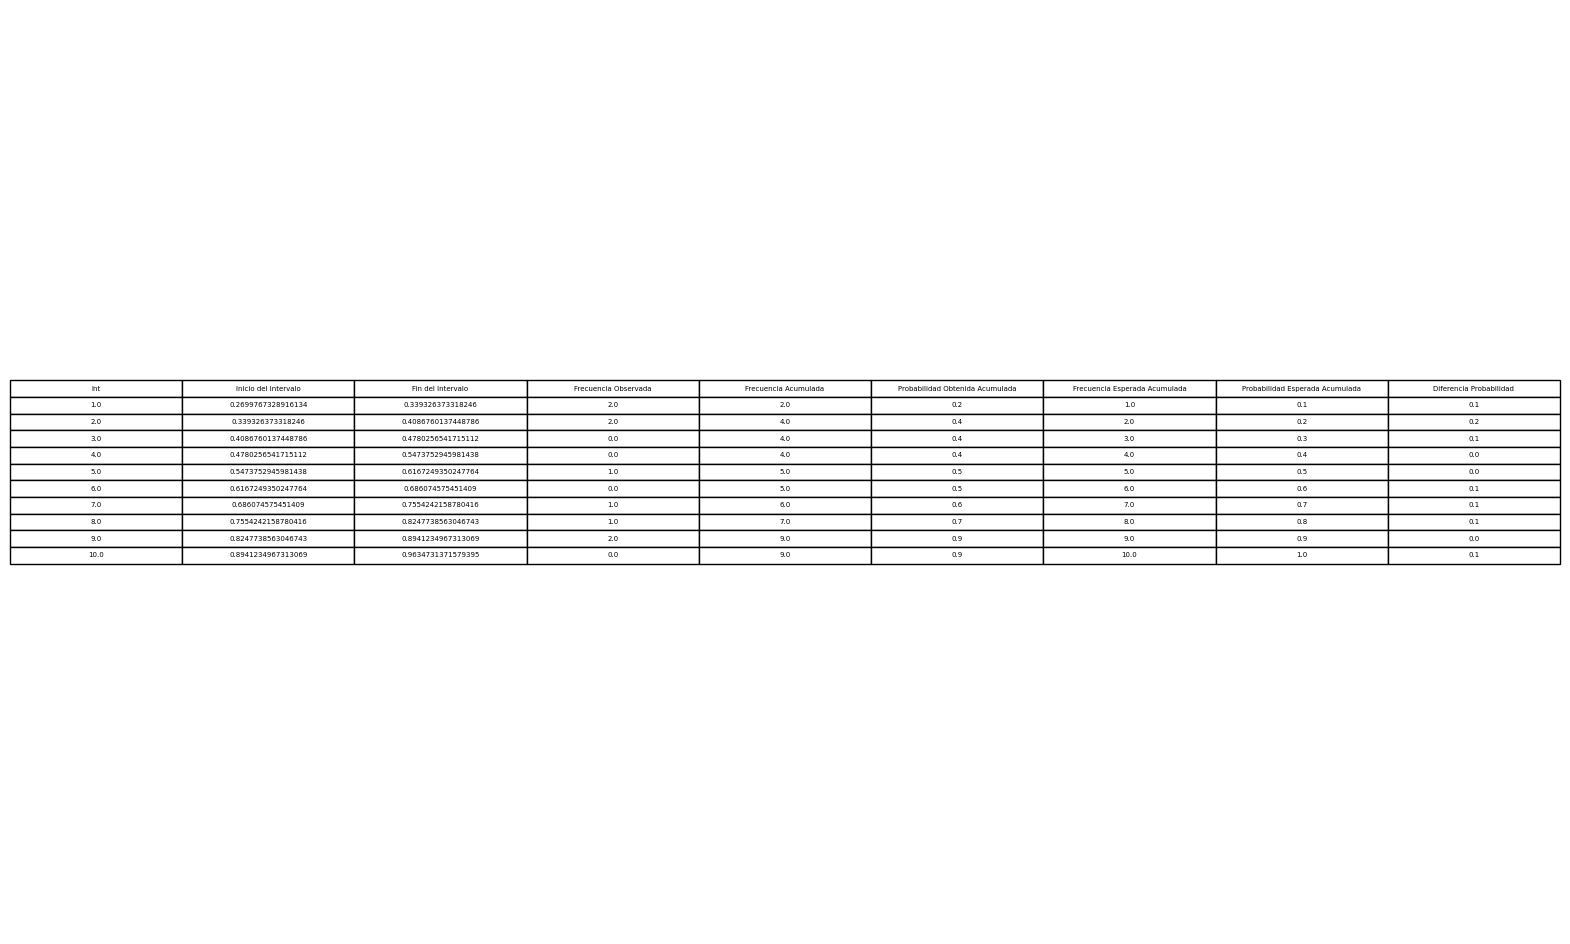
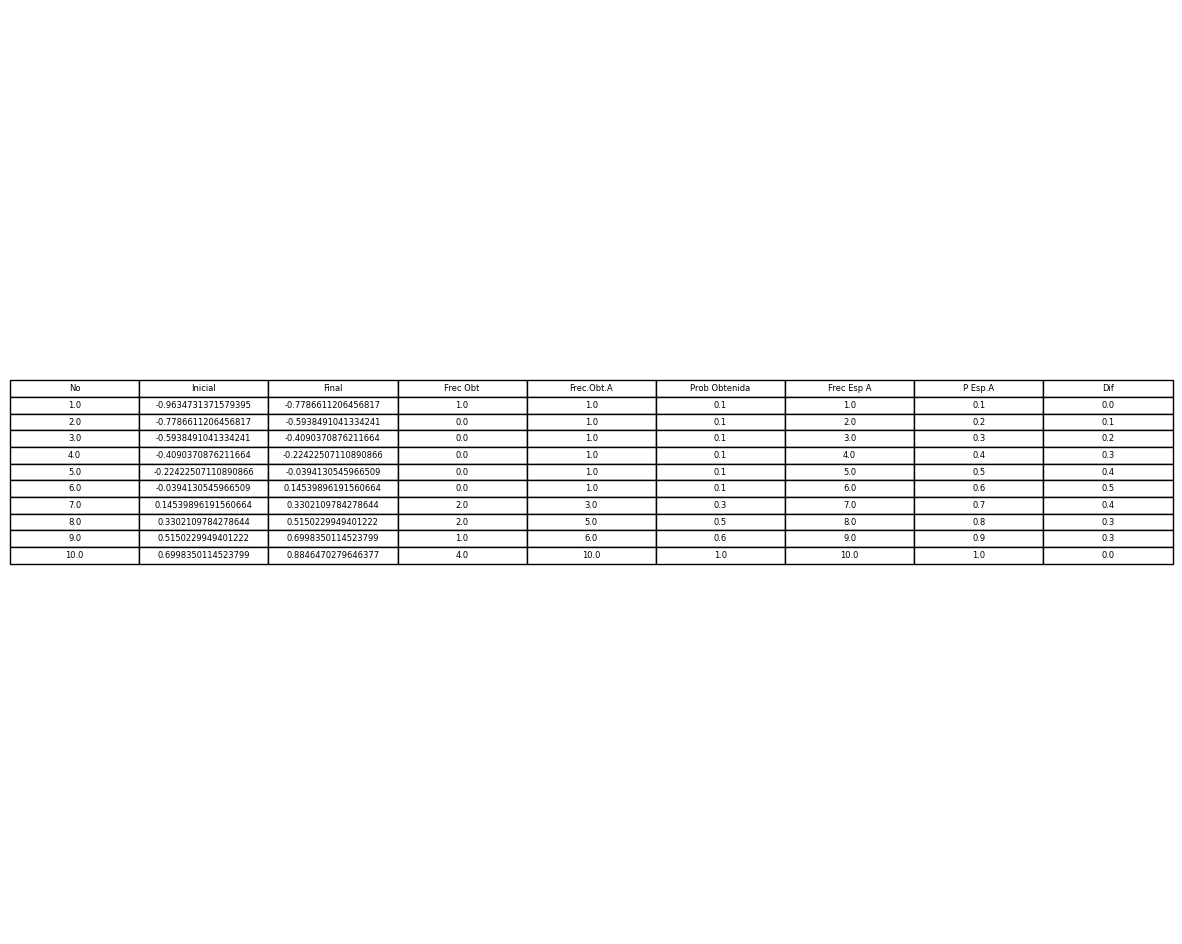
GUI Tests
Implemented GUI

diff --git a/Test/ks.py b/Test/ks.py
@@ -2,9 +2,11 @@ import numpy as np
 import pandas as pd
 from scipy.stats import ksone
 import matplotlib.pyplot as plt
+import tkinter as tk
+from tkinter import ttk
 
 # Ingresa tus valores de conjunto de datos
-data = [0.9634731371579395, 0.8846470279646376, 0.7266874660722045, 0.35868355450366385, 0.3402934242066663, 0.2699767328916134, 0.31722243341888456, 0.5614001017785968, 0.8342195117324919, 0.7615286765340064]
+data = [-0.9634731371579395, 0.8846470279646376, 0.7266874660722045, 0.35868355450366385, 0.3402934242066663, 0.2699767328916134, 0.31722243341888456, 0.5614001017785968, 0.8342195117324919, 0.7615286765340064]
 
 # Define el número de intervalos
 num_intervals = 10
@@ -65,25 +67,26 @@ def calcular_valores_criticos_ks(alpha, n):
     
     return valor_critico
 
-
+root = tk.Tk()
+root.title("Tabla KS Test")
 
 # Crea un DataFrame de Pandas para mostrar el procedimiento
 data_table = pd.DataFrame({
-    'Int': list(range(1, num_intervals + 1)),
-    'Inicio del Intervalo': [interval[0] for interval in intervals],
-    'Fin del Intervalo': [interval[1] for interval in intervals],
-    'Frecuencia Observada': frequency,
-    'Frecuencia Acumulada': cumulative_frequency,
-    'Probabilidad Obtenida Acumulada': observed_cumulative_probability,
-    'Frecuencia Esperada Acumulada': expected_cumulative_frequency,
-    'Probabilidad Esperada Acumulada': expected_cumulative_probability,
-    'Diferencia Probabilidad': difference_probability
+    'No': list(range(1, num_intervals + 1)),
+    'Inicial': [interval[0] for interval in intervals],
+    'Final': [interval[1] for interval in intervals],
+    'Frec Obt': frequency,
+    'Frec.Obt.A': cumulative_frequency,
+    'Prob Obtenida': observed_cumulative_probability,
+    'Frec Esp A': expected_cumulative_frequency,
+    'P Esp.A': expected_cumulative_probability,
+    'Dif': difference_probability
 })
 
 # Formatea las columnas para mostrar 4 decimales
-data_table['Probabilidad Obtenida Acumulada'] = data_table['Probabilidad Obtenida Acumulada'].round(4)
-data_table['Probabilidad Esperada Acumulada'] = data_table['Probabilidad Esperada Acumulada'].round(4)
-data_table['Diferencia Probabilidad'] = data_table['Diferencia Probabilidad'].round(4)
+data_table['Prob Obtenida'] = data_table['Prob Obtenida'].round(4)
+data_table['P Esp.A'] = data_table['P Esp.A'].round(4)
+data_table['Dif'] = data_table['Dif'].round(4)
 
 pd.set_option('display.max_columns', None)
 # Muestra la tabla
@@ -104,7 +107,8 @@ else:
     print("Se rechaza la hipótesis nula")
     
 # Crea una figura y un eje
-fig, ax = plt.subplots(figsize=(20, 12))
+fig, ax = plt.subplots(figsize=(15, 12))
+col_widths = [0.1, 0.3, 0.2, 0.3]
 
 # Oculta los ejes
 ax.axis('off')
@@ -115,4 +119,39 @@ ax.table(cellText=data_table.values, colLabels=data_table.columns, cellLoc='cent
 # Guarda la figura como una imagen
 plt.savefig('tabla_resultados.png', bbox_inches='tight', pad_inches=0.1)    
     
-    
+
+# Crear un widget Treeview de Tkinter para mostrar la tabla
+table = ttk.Treeview(root, columns=list(data_table.columns), show="headings")
+table.column("No", width="50")
+table.column("Inicial", width="130")
+table.column("Final", width="130")
+table.column("Frec Obt", width="70")
+table.column("Frec.Obt.A", width="70")
+table.column("Prob Obtenida", width="70")
+table.column("Frec Esp A", width="70")
+table.column("P Esp.A", width="70")
+table.column("Dif", width="60")
+
+# Configurar encabezados de columnas
+for col in data_table.columns:
+    table.heading(col, text=col)
+
+# Agregar filas de datos a la tabla
+for i, row in data_table.iterrows():
+    table.insert('', 'end', values=list(row))
+
+# Colocar la tabla en la ventana
+table.grid(row=0, column=0, padx=10, pady=10)
+
+# ... (tu código existente) ...
+
+# Función para cerrar la ventana cuando se haga clic en el botón de "Cerrar"
+def cerrar_ventana():
+    root.destroy()
+
+# Botón para cerrar la ventana
+boton_cerrar = ttk.Button(root, text="Cerrar", command=cerrar_ventana)
+boton_cerrar.grid(row=1, column=0, padx=10, pady=10)
+
+# Ejecutar la aplicación de Tkinter
+root.mainloop()

diff --git a/Test/chi-cuadrado.py b/Test/chi-cuadrado.py
@@ -4,6 +4,8 @@ from scipy.stats import ksone
 import scipy.stats as stats
 import matplotlib.pyplot as plt
 import math
+import tkinter as tk
+from tkinter import ttk
 
 # Ingresa tus valores de conjunto de datos
 data = [0.9634731371579395, 0.8846470279646376, 0.7266874660722045, 0.35868355450366385, 0.3402934242066663, 0.2699767328916134, 0.31722243341888456, 0.5614001017785968, 0.8342195117324919, 0.7615286765340064]
@@ -11,6 +13,9 @@ total_datos = data.__len__()
 #El numero de intervalos es igual a la raiz cuadrada del numero de datos
 m = math.sqrt(total_datos)
 num_intervals = round(m)
+
+root = tk.Tk()
+root.title("Tabla Chi Cuadrado")
 
 #Ei = numero elementos / numero intervalos
 ei = total_datos / num_intervals
@@ -53,8 +58,8 @@ squared_difference = [((ei - observed) ** 2) / ei for observed in frequency]
 
 data_table = pd.DataFrame({
     'Int': list(range(1, num_intervals + 1)),
-    'Inicio del Intervalo': [interval[0] for interval in intervals],
-    'Fin del Intervalo': [interval[1] for interval in intervals],
+    'Inicial': [interval[0] for interval in intervals],
+    'Final': [interval[1] for interval in intervals],
     'Oi': frequency,
     'Ei': [ei] * num_intervals,
     '(Ei-Oi)^2/Ei': squared_difference
@@ -73,3 +78,35 @@ if(total < critical_value):
     print ("No se rechaza la hipotesis nula")
 else:
     print ("Se rechaza la hipotesis nula")
+
+table = ttk.Treeview(root, columns=list(data_table.columns), show="headings")
+table.column("Int", width="50")
+table.column("Inicial", width="100")
+table.column("Final", width="100")
+table.column("Oi", width="60")
+table.column("Ei", width="100")
+table.column("(Ei-Oi)^2/Ei", width="150")
+
+# Configurar encabezados de columnas
+for col in data_table.columns:
+    table.heading(col, text=col)
+
+# Agregar filas de datos a la tabla
+for i, row in data_table.iterrows():
+    table.insert('', 'end', values=list(row))
+
+# Colocar la tabla en la ventana
+table.grid(row=0, column=0, padx=10, pady=10)
+
+# ... (tu código existente) ...
+
+# Función para cerrar la ventana cuando se haga clic en el botón de "Cerrar"
+def cerrar_ventana():
+    root.destroy()
+
+# Botón para cerrar la ventana
+boton_cerrar = ttk.Button(root, text="Cerrar", command=cerrar_ventana)
+boton_cerrar.grid(row=1, column=0, padx=10, pady=10)
+
+# Ejecutar la aplicación de Tkinter
+root.mainloop()

diff --git a/Test/poker.py b/Test/poker.py
@@ -1,5 +1,10 @@
 import pandas as pd
 import scipy.stats as stats
+import tkinter as tk
+from tkinter import ttk
+
+root = tk.Tk()
+root.title("Tabla poker Test")
 
 def truncar_a_5_digitos(numero):
     return round(numero, 5)
@@ -87,4 +92,34 @@ if(total < critical_value):
     print ("No se rechaza la hipotesis nula")
 else:
     print ("Se rechaza la hipotesis nula")
+    
+table = ttk.Treeview(root, columns=list(tabla.columns), show="headings")
+table.column("Categoria", width="100")
+table.column("Oi", width="60")
+table.column("probabilidad", width="100")
+table.column("Ei", width="100")
+table.column("(Ei-Oi)^2/Ei", width="150")
 
+# Configurar encabezados de columnas
+for col in tabla.columns:
+    table.heading(col, text=col)
+
+# Agregar filas de datos a la tabla
+for i, row in tabla.iterrows():
+    table.insert('', 'end', values=list(row))
+
+# Colocar la tabla en la ventana
+table.grid(row=0, column=0, padx=10, pady=10)
+
+# ... (tu código existente) ...
+
+# Función para cerrar la ventana cuando se haga clic en el botón de "Cerrar"
+def cerrar_ventana():
+    root.destroy()
+
+# Botón para cerrar la ventana
+boton_cerrar = ttk.Button(root, text="Cerrar", command=cerrar_ventana)
+boton_cerrar.grid(row=1, column=0, padx=10, pady=10)
+
+# Ejecutar la aplicación de Tkinter
+root.mainloop()
